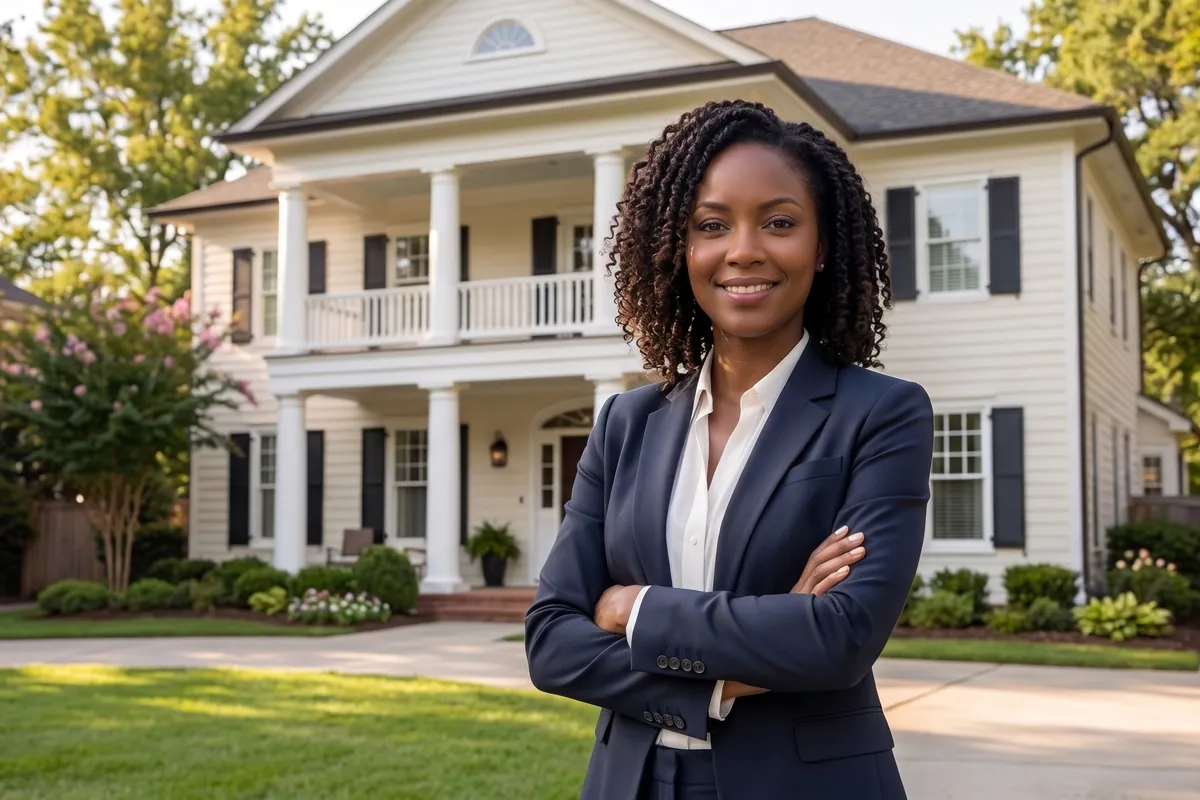
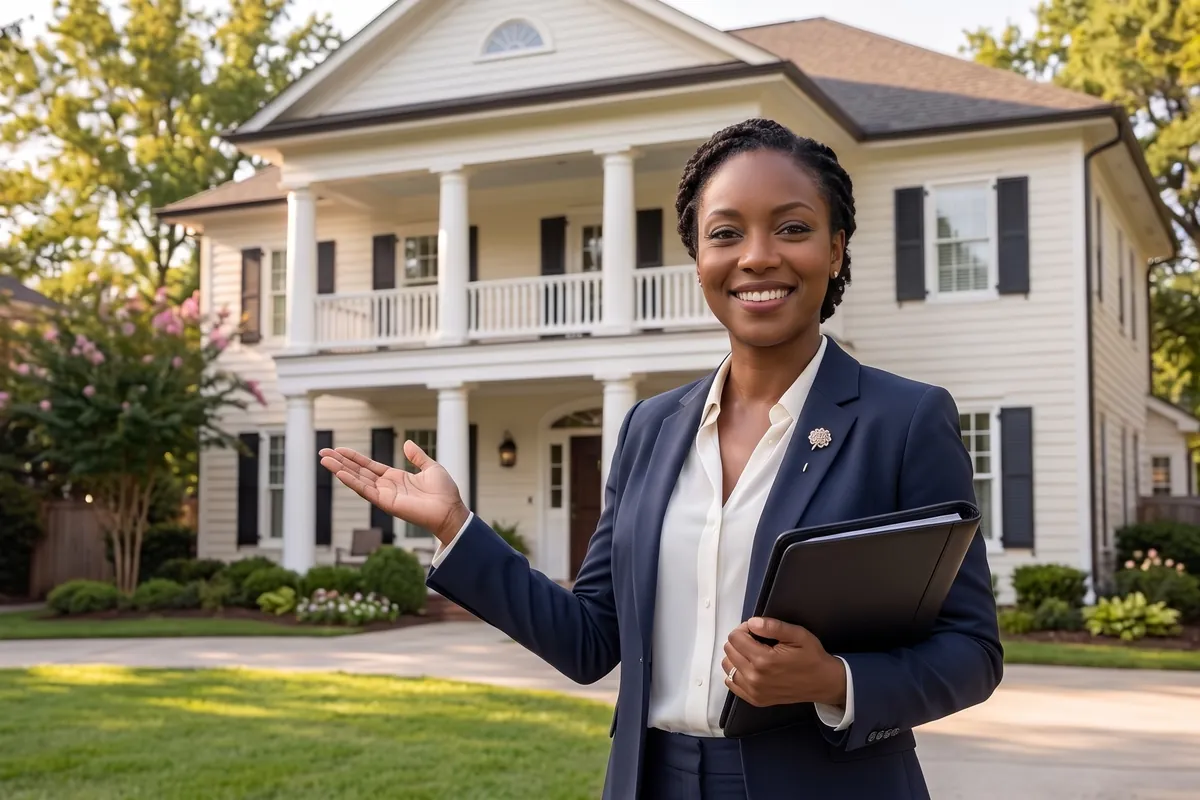
GA hero: new photo (boss, GA_RE_Female3)

diff --git a/re/ko/georgia/index.html b/re/ko/georgia/index.html
@@ -148,7 +148,7 @@
       <a class="hero-note-link" href="/install-guide.html?exam=re">설치 방법 →</a>
     </div>
   </div>
-  <div class="hero-demo" id="hero-rot"><img class="hero-photo rot-active" src="/re/img/hero-re-ga.webp?v=ae8e7c45ef" width="1200" height="800" alt="흰 기둥이 있는 2층 집 앞에서 팔짱을 끼고 미소 짓는 부동산 에이전트" fetchpriority="high"></div>
+  <div class="hero-demo" id="hero-rot"><img class="hero-photo rot-active" src="/re/img/hero-re-ga.webp?v=a3718e2142" width="1200" height="800" alt="흰 기둥이 있는 2층 집 앞에서 서류철을 들고 집을 안내하는 부동산 에이전트" fetchpriority="high"></div>
 </div></section>
 
 <section class="stats"><div class="wrap stats-grid"><div><div class="stat-num">700+</div><div class="stat-label">조지아 주 문제</div></div><div><div class="stat-num">4,400+</div><div class="stat-label">전국 공통 문제</div></div><div><div class="stat-num">31개</div><div class="stat-label">조지아 War Room 주제</div></div><div><div class="stat-num">Mock Exams</div><div class="stat-label">조지아 시험 형식 모의고사</div></div><div><div class="stat-num">30일</div><div class="stat-label">무료 체험</div></div></div></section>

diff --git a/re/georgia/index.html b/re/georgia/index.html
@@ -148,7 +148,7 @@
       <a class="hero-note-link" href="/install-guide.html?exam=re">How to install →</a>
     </div>
   </div>
-  <div class="hero-demo" id="hero-rot"><img class="hero-photo rot-active" src="/re/img/hero-re-ga.webp?v=ae8e7c45ef" width="1200" height="800" alt="Real estate agent with arms crossed in front of a white-columned two-story home" fetchpriority="high"></div>
+  <div class="hero-demo" id="hero-rot"><img class="hero-photo rot-active" src="/re/img/hero-re-ga.webp?v=a3718e2142" width="1200" height="800" alt="Real estate agent holding a portfolio and presenting a white-columned two-story home" fetchpriority="high"></div>
 </div></section>
 
 <section class="stats"><div class="wrap stats-grid"><div><div class="stat-num">700+</div><div class="stat-label">Georgia Questions</div></div><div><div class="stat-num">4,400+</div><div class="stat-label">National Questions</div></div><div><div class="stat-num">31</div><div class="stat-label">Georgia War Room Topics</div></div><div><div class="stat-num">Mock Exams</div><div class="stat-label">In Georgia Exam Format</div></div><div><div class="stat-num">30 Days</div><div class="stat-label">Free Trial</div></div></div></section>
